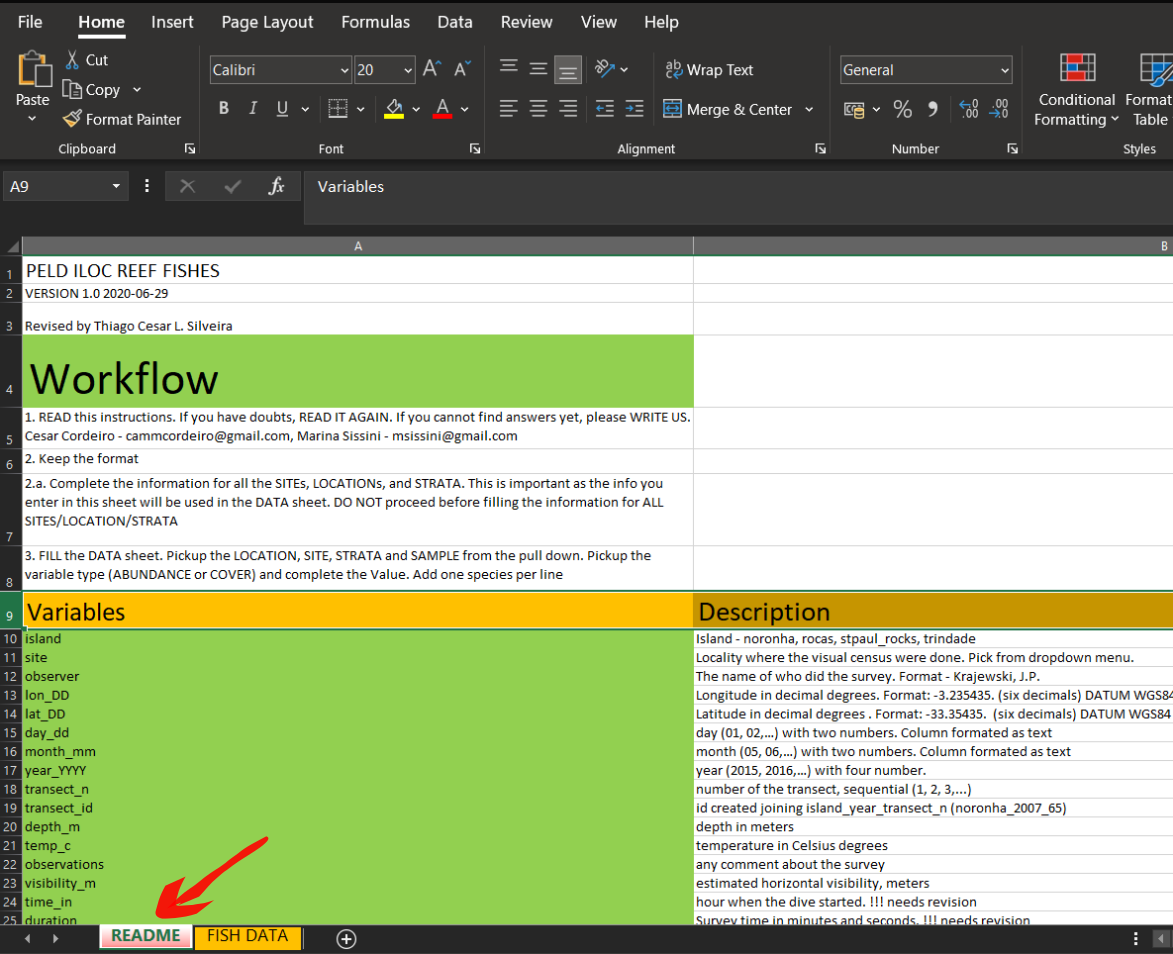
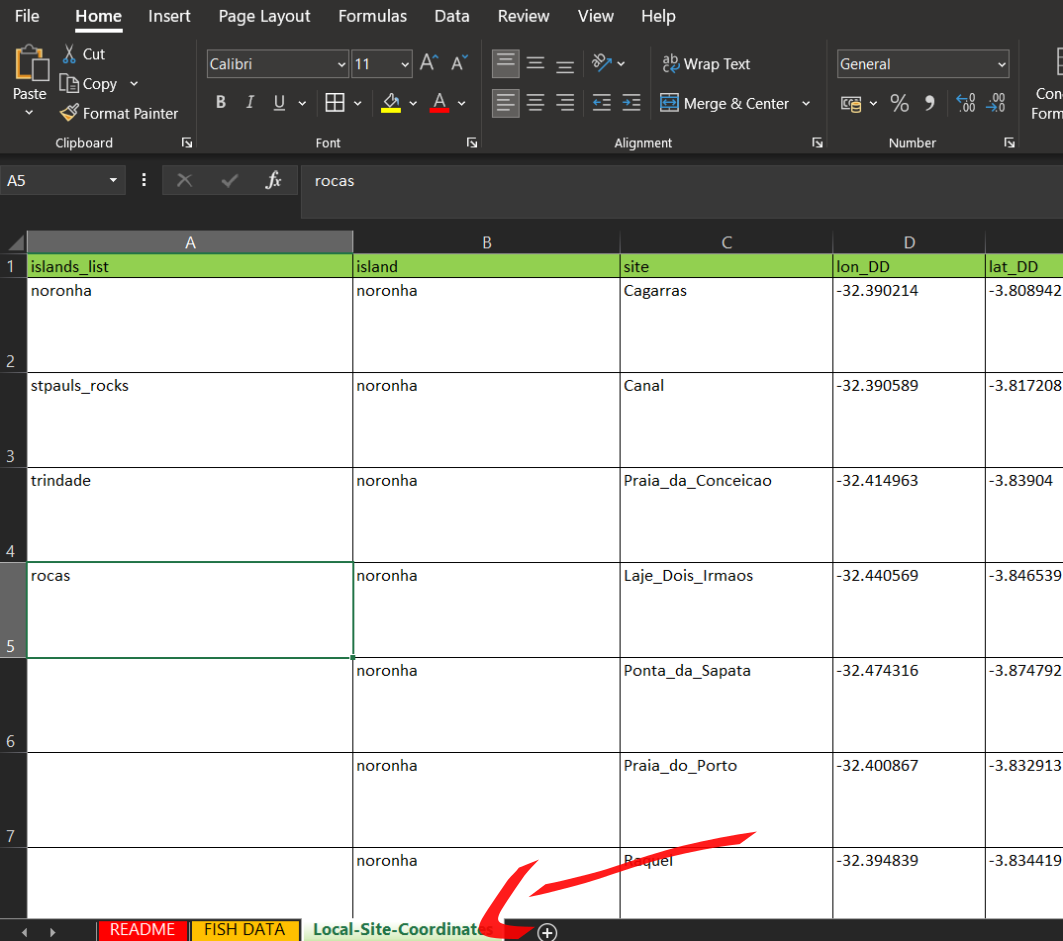
edits in dados

diff --git a/docs/dados.html b/docs/dados.html
@@ -553,10 +553,12 @@ taxa_table1_df</code></pre>
 <ul>
 <li>Permitindo somente números inteiros</li>
 <li>Somente decimais</li>
-<li>Seguido itens de uma lista (útil para nomes de espécies, localidades e nome de observadores)</li>
+<li>Seguido itens de uma lista (útil para nomes de espécies, localidades, coordenadas e nomes de quem amostrou/processou)</li>
 <li>Tempo, data, etc…</li>
 </ul>
 <p>Ainda podem ser adiciondas mensagens de input e error.</p>
+<p>Para usar recurso de lista do Excel é preciso ter uma aba com as listas que serão usadas. Ter uma aba no mesmmo arquivo com a lista de ilhas, locais, coordendas para cada local e espécies com os nomes conferidos ajuda muito a evitar erros de digitação.</p>
+<p><img src= "figs/data_7.png" style= "width:100%"></p>
 </div>
 <div id="arquivo-readme" class="section level3">
 <h3>3.6 Arquivo README</h3>
@@ -568,24 +570,38 @@ taxa_table1_df</code></pre>
 <li>Data da última atualização da base de dados</li>
 <li>Como incorporar novos dados</li>
 </ul>
-<p><img src= "figs/data_7.png" style= "width:50%"></p>
+<p><img src= "figs/data_8.png" style= "width:50%"></p>
 </div>
 <div id="datas" class="section level3">
 <h3>3.7 Datas</h3>
 <p>Quanto a inserção de datas, sugere-se que se separe os valores de dia, mês e ano. Outros formatos também podem ser eficientes (11-05-2021, por exemplo), mas devem ter consistência em todo o banco de dados. O mais aconselhado é que havendo uma coluna para dia, mes e ano, evita-se confusões de formato dia/mes/ano ou mes/dia/ano, por exemplo.</p>
-<p><img src= "figs/data_8.png" style= "width:50%"></p>
+<p><img src= "figs/data_9.png" style= "width:50%"></p>
 </div>
+<div id="controle-de-versão" class="section level3">
+<h3>3.8 Controle de Versão</h3>
+<p>O controle de versão da informação em bancos de dados é uma prática muito importante e tornar isto parte do seu dia-a-dia pode evitar problemas futuros. Uma simples ação que pode ser empregada é <strong>nunca alterar os dados originais</strong>. Sempre que tiver um banco de dados em mãos, salve com outro nome e faça edições.</p>
+<p>Outro cuidado que pode ser tomado também é seguir uma lógica de nomeação de arquivos. Procurar ser o mais informativo possível ajuda a organizar os arquivos e ajuda a organizar a informação.</p>
+<p>Abaixo algumas sugestões de nomeação de arquivos:</p>
+<table>
+<thead>
+<tr class="header">
+<th align="center">Nome pouco infomartivo</th>
+<th align="center">Sugestão</th>
+</tr>
+</thead>
+<tbody>
+<tr class="odd">
+<td align="center">dados_reef_fish.xls</td>
+<td align="center">reef_fish_pels_ThiagoS_2021_07_27.xls</td>
+</tr>
+<tr class="even">
+<td align="center">dados_rocas_final.xls</td>
+<td align="center">benthos_rocas_ThiagoS_2021_07_27.xls</td>
+</tr>
+</tbody>
+</table>
+<p>Existem ferramentas que nos auxiliam no controle de versão e compartilhamento de arquivos como o <a href="https://git-scm.com/">git</a> e <a href="https://github.com/">github</a>. Estas ferramentas serão abordadas na sessão <a href="github.html">Github PELD -ILOC</a> juntamente com a apresentação do perfil do github do PELD ILOC</p>
 </div>
-<div id="controle-de-qualidade" class="section level2">
-<h2>Controle de Qualidade</h2>
-<ul>
-<li><p>Nome de espécies</p></li>
-<li><p>Nomes de locais</p></li>
-<li><p>Coordendas</p></li>
-</ul>
-</div>
-<div id="exportação-de-dados" class="section level2">
-<h2>Exportação de Dados</h2>
 </div>
 <div id="bibliografia" class="section level2">
 <h2>Bibliografia</h2>
